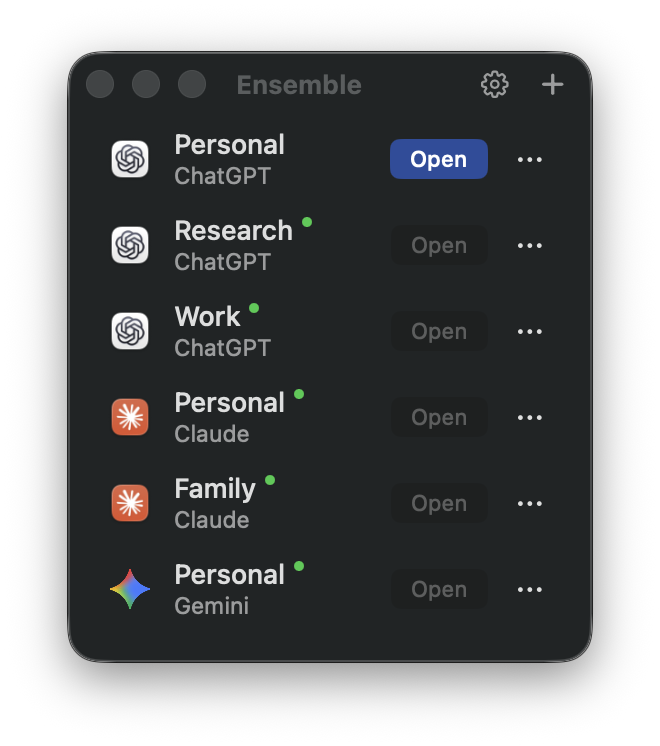
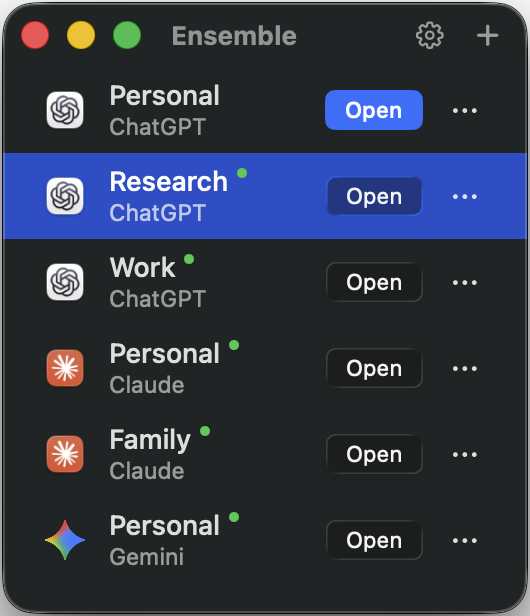
Swap in a shadow-free screenshot; let the page draw the shadow
A capture with macOS's own shadow carries a wide transparent margin that reads as
broken alignment in a layout. Cropping it to the window and adding the shadow in
CSS keeps the framing under the page's control.

diff --git a/index.html b/index.html
@@ -56,11 +56,16 @@
   .req { font-size: 0.85rem; color: var(--muted); margin-top: 14px; }
 
   section { padding: 44px 0; border-top: 1px solid var(--line); }
-  /* The capture already carries its own drop shadow and transparent margin, so it
-     needs no frame or border — adding one would double the edge. Displayed at half
-     its pixel width so it stays crisp on Retina. */
+  /* Shadow-free capture, so the page supplies the shadow and rounded corners the
+     window would otherwise have — without them it reads as a flat rectangle pasted
+     onto the page, especially in light mode. Shown at half its pixel width to stay
+     crisp on Retina. */
   .shot { border-top: none; padding-top: 8px; text-align: center; }
-  .shot img { width: 100%; max-width: 330px; height: auto; }
+  .shot img {
+    width: 100%; max-width: 300px; height: auto;
+    border-radius: 11px;
+    box-shadow: 0 18px 40px rgba(0,0,0,.22), 0 2px 6px rgba(0,0,0,.14);
+  }
   h2 { font-size: 1.35rem; margin: 0 0 18px; letter-spacing: -0.01em; }
   h3 { font-size: 1rem; margin: 0 0 6px; }
   p { margin: 0 0 14px; }
